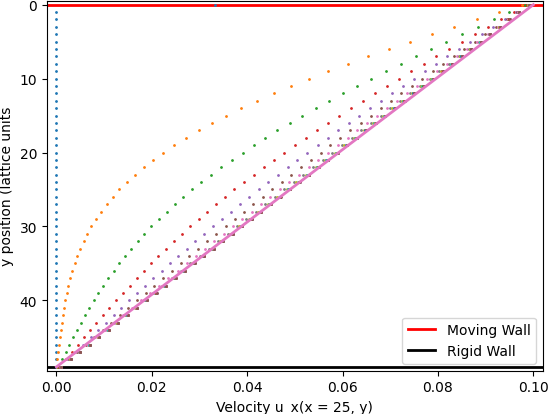
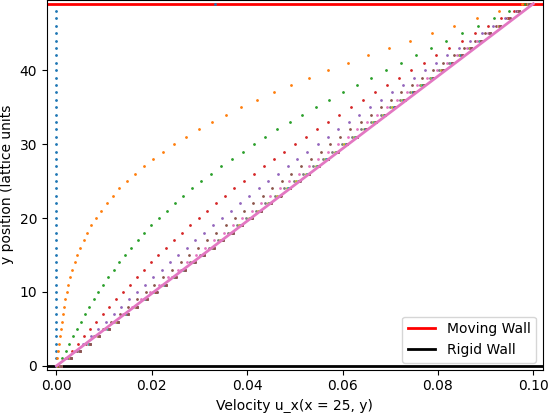
Add  y_max y_min fix

diff --git a/lb/boundaries.py b/lb/boundaries.py
@@ -7,11 +7,11 @@ class Boundary(ABC):
     def __init__(self, placement):
         self.placement = placement
         if (placement == 'top'):
-            self.input_channels = np.array([2, 5, 6])
-            self.output_channels = np.array([4, 7, 8])
-        elif (placement == 'bottom'):
             self.input_channels = np.array([4, 7, 8])
             self.output_channels = np.array([2, 5, 6])
+        elif (placement == 'bottom'):
+            self.input_channels = np.array([2, 5, 6])
+            self.output_channels =  np.array([4, 7, 8])
         elif (placement == 'left'):
             self.input_channels = np.array([3, 7, 6])
             self.output_channels = np.array([1, 5, 8])
@@ -24,9 +24,9 @@ class Boundary(ABC):
     def pre(self, f):
         """Called before the streaming to cache boundary conditions."""
         if (self.placement == 'top'):
-            self.f_cache = f[:, :, 0].copy()
-        elif (self.placement == 'bottom'):
             self.f_cache = f[:, :, -1].copy()
+        elif (self.placement == 'bottom'):
+            self.f_cache = f[:, :, 0].copy()
         elif (self.placement == 'left'):
             self.f_cache = f[:, 0, :].copy()
         elif (self.placement == 'right'):
@@ -46,9 +46,9 @@ class RigidWall(Boundary):
     
     def after(self, f):
         if (self.placement == 'top'):
-            f[self.input_channels, :, 0] = self.f_cache[self.output_channels, :]
-        elif (self.placement == 'bottom'):
             f[self.input_channels, :, -1] = self.f_cache[self.output_channels, :]
+        elif (self.placement == 'bottom'):
+            f[self.input_channels, :, 0] = self.f_cache[self.output_channels, :]
         elif (self.placement == 'left'):
             f[self.input_channels, 0, :] = self.f_cache[self.output_channels, :]
         elif (self.placement == 'right'):
@@ -68,11 +68,11 @@ class TopMovingWall(Boundary):
         self.cs = cs
     
     def after(self, f):
-        rho = lb.calculate_density(f[:, :, 0])
+        rho = lb.calculate_density(f[:, :, -1])
         factor = 2 * (1/self.cs) ** 2
         momentum = factor * (C @ self.velocity) * (W * rho[:, None])
         momentum = momentum[:, self.output_channels]
-        f[self.input_channels, :, 0] = (self.f_cache[self.output_channels] - momentum.T)
+        f[self.input_channels, :, -1] = (self.f_cache[self.output_channels] - momentum.T)
 
 class PortalWall(Boundary):
     def __init__(self, placement, n, pressure, cs=1/np.sqrt(3)):

diff --git a/plot.py b/plot.py
@@ -81,11 +81,11 @@ class Plotter2:
         self.nx = nx
         self.ny = ny
         self.y = np.arange(ny)
-        self.analytical = (ny-1 - self.y) / (ny-1) * wall_velocity
+        self.analytical = (self.y) / (ny-1) * wall_velocity
         self.ax.set_xlim([0.0 - padding_x, wall_velocity + padding_x])
-        self.ax.set_ylim([ny - 1 + padding_y, -padding_y])
-        self.ax.axhline(0.0, linewidth=2, color='red')
-        self.ax.axhline(self.ny-1, linewidth=2, color='black')
+        self.ax.set_ylim([-padding_y, ny - 1 + padding_y])
+        self.ax.axhline(self.ny-1, linewidth=2, color='red')
+        self.ax.axhline(0.0, linewidth=2, color='black')
         self.ax.set_ylabel('y position (lattice units')
         self.ax.set_xlabel('Velocity u_x(x = 25, y)')
         self.ax.legend(['Moving Wall', 'Rigid Wall', 
